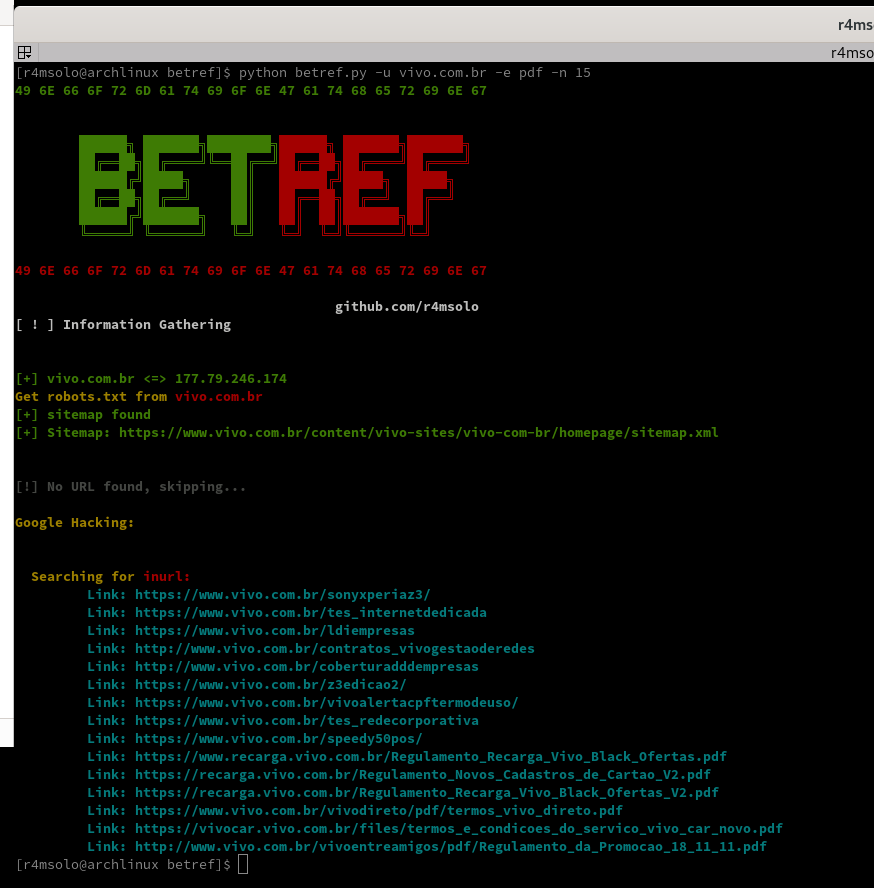
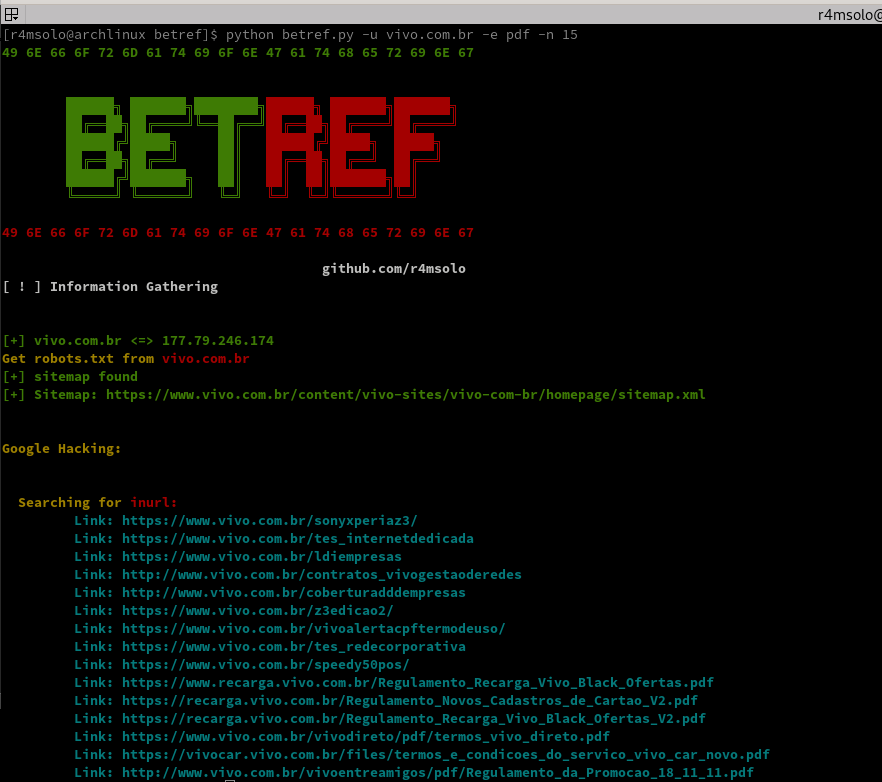
08-20-20

Changed region(s): [[0.0, 0.0, 1.0, 1.0], [0.0618, 0.3376, 0.2471, 0.399], [0.3707, 0.3376, 0.5561, 0.3683]]

diff --git a/betref.py b/betref.py
@@ -72,7 +72,7 @@ class BetRef():
 				if address:
 					self.getDNS(address)
 					self.getRobots(address)
-				if search:
+				elif search:
 					search = ' '.join(search)
 				else:
 					print('\n\033[1;90m[!] No URL found, skipping...\033[0;0m')
